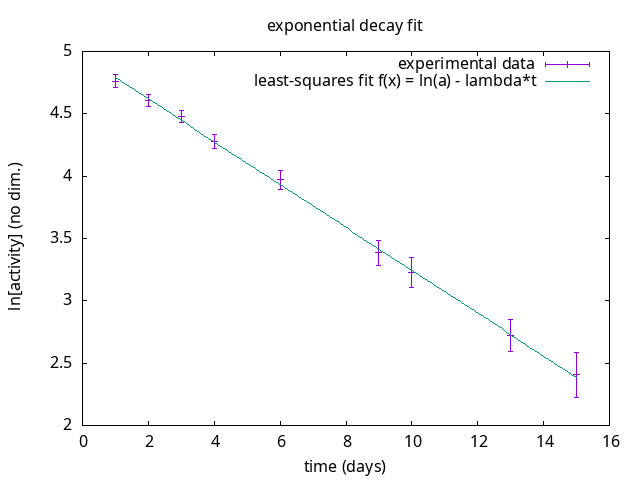
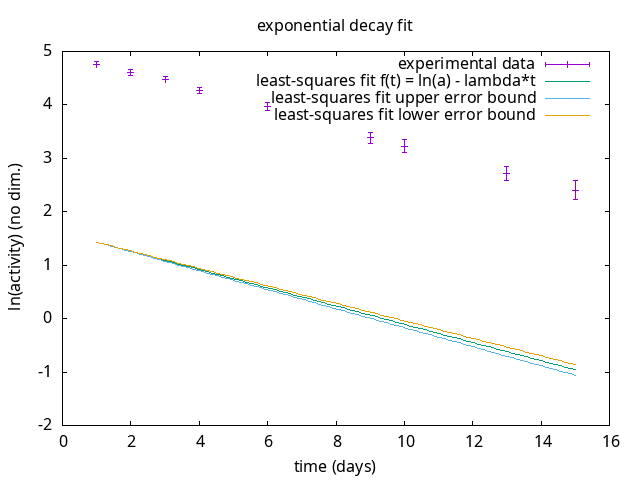
wrapping up least-squares

diff --git a/homework/least-squares/main.cs b/homework/least-squares/main.cs
@@ -18,7 +18,7 @@ public static class main {
         }
 
         // read input file
-        // (note: this seems overly complicated...)
+        // (note: this seems overly complicated and specific...)
         double[] times = new double[9];
         double[] activities = new double[9];
         double[] uncertainties = new double[9];
@@ -31,18 +31,28 @@ public static class main {
         line != null; line = instream.ReadLine()) {
             var data = line.Split(split_delimiters, split_options);
             times[counter] = double.Parse(data[0]);
-            activities[counter] = Log(double.Parse(data[1])); // ln(y)
+            activities[counter] = double.Parse(data[1]);
             uncertainties[counter]
                 = Abs(double.Parse(data[2])/activities[counter]); // \del y/y
+            activities[counter] = Log(activities[counter]); // ln(y)
             counter += 1;
         }
         instream.Close();
         
         var fs = new Func<double,double>[] { z => 1.0, z => -z }; // ln fit
-        vector c = lsfit(fs, times, activities, uncertainties);
+        (vector c, matrix S) = lsfit(fs, times, activities, uncertainties);
 //        Write($"output from fit f(t) = ln(a) - lambda*t:\n");
-        Write($"a={Exp(c[0])}\n");
+        Write($"a={c[0]}\n");
         Write($"lambda={c[1]}\n");
+        Write($"uncert_a={Sqrt(S[0,0])}\n");
+        Write($"uncert_lambda={Sqrt(S[1,1])}\n");
+        Error.Write("S matrix:\n");
+        for(int i = 0; i < S.size1; i++) {
+            for(int j = 0; j < S.size2; j++) {
+                Error.Write($"{S[i,j]}\t");
+            }
+            Error.Write("\n");
+        }
 //        Write($"from the fit, the half-life time t_h = ln(2)/lambda ");
 //        Write($"= {Log(2.0)/c[1]}. The modern accepted value for ");
 //        Write($"the half-life of Radium-224 is 3.6 days ");

diff --git a/homework/least-squares/qrgs.cs b/homework/least-squares/qrgs.cs
@@ -24,10 +24,8 @@ public partial class qrgs {
      * uses the matrices Q and R from "decomp"
      * and solves Q.R.x = b for the given
      * RHS "b" */
-    public static vector solve(matrix A, vector b) {
-        matrix Q = decomp(A).Item1;
-        matrix R = decomp(A).Item2;
-        vector x = new vector(A.size2);
+    public static vector solve(matrix Q, matrix R, vector b) {
+        vector x = new vector(Q.size1);
         vector rhs = Q.transpose()*b;
         for(int i = rhs.size-1; i >= 0; i--) {
             double sum = 0;
@@ -37,6 +35,11 @@ public partial class qrgs {
             x[i] = (rhs[i] - sum)/R[i,i];
         }
         return x;
+    } // solve 
+
+    public static vector solve(matrix A, vector b) {
+        (matrix Q, matrix R) = decomp(A);
+        return solve(Q, R, b);
     } // solve
 
     /* determinant:
@@ -67,5 +70,19 @@ public partial class qrgs {
         }
         return inverse;
     } // inverse
+
+    /* pinverse:
+     * calculates the pseudo-inverse (Moore-Penrose inverse)
+     * of a tall matrix A using
+     * QRGS decomposition */
+    public static matrix pinverse(matrix A) {
+        (matrix Q, matrix R) = decomp(A);
+        matrix I = new matrix(Q.size1);
+        I.set_identity();
+        for(int i = 0; i < Q.size1; i++) {
+            I[i] = solve(Q, R, I[i]);
+        }
+        return I;
+    } // pinverse
 } // qrgs
 

diff --git a/homework/least-squares/ls.cs b/homework/least-squares/ls.cs
@@ -1,6 +1,7 @@
 using System;
+using static qrgs;
 public static class ls {
-    public static vector lsfit
+    public static (vector, matrix) lsfit
     (Func<double,double>[] fs, vector x, vector y, vector dy) {
         int n = x.size, m = fs.Length;
         var A = new matrix(n, m);
@@ -11,6 +12,8 @@ public static class ls {
                 A[i,j] = fs[j](x[i])/dy[i];
             }
         }
-        return qrgs.solve(A, b);
+        matrix S = pinverse(A.transpose()*A);
+        return (qrgs.solve(A, b), S);
     }
 }
+

diff --git a/homework/least-squares/readme.md b/homework/least-squares/readme.md
@@ -1,6 +1,6 @@
 # 2024-03-18
 
-qrgs.cs: from prior homework "lineq"
-matrix.cs: from prior homework "evd" (originally provided by Dmitri)
-vector.cs: from prior homework "evd" (originally provided by Dmitri)
+qrgs.cs: from prior homework "lineq";
+matrix.cs: from prior homework "evd" (originally provided by Dmitri);
+vector.cs: from prior homework "evd" (originally provided by Dmitri).
 
